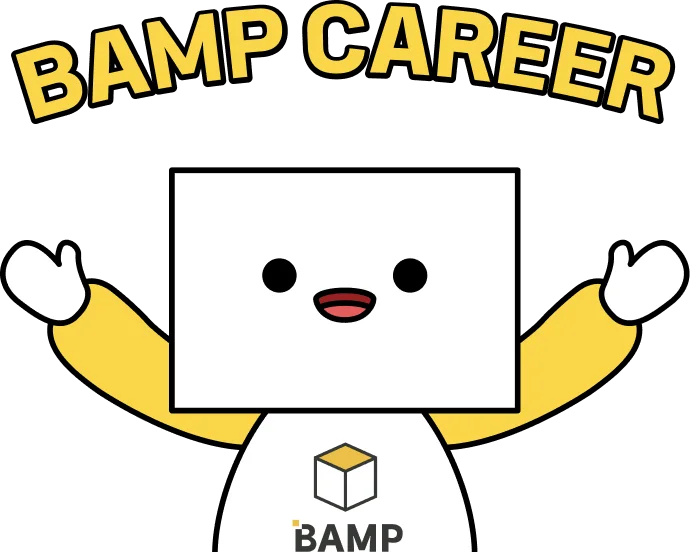
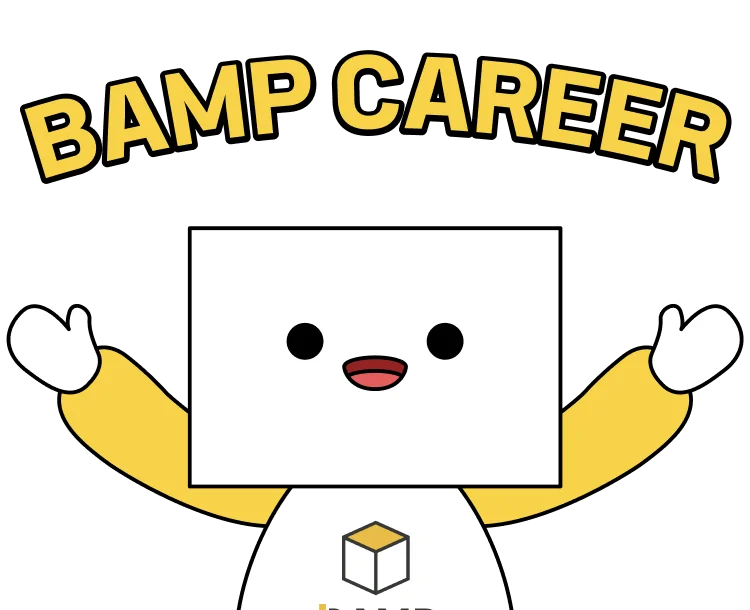
[refactor]: 마지막 최종 디자인 수정

diff --git a/src/pages/home/section/Experiences.tsx b/src/pages/home/section/Experiences.tsx
@@ -1,15 +1,24 @@
 export default function FourthSection() {
   return (
     <section className="h-max py-24 bg-[url('/home/section-bg.webp')] bg-cover max-lg:h-max max-lg:bg-contain max-sm:py-20">
-      <div className="w-screen flex justify-around max-lg:flex-col max-lg:items-center">
-        <div className="w-40">
-          <h2 className="font-extrabold text-3xl max-lg:text-center">
-            BAMP에서 얻을 수 있는 값진 경험들
+      <div className="mx-auto w-[920px] flex justify-between max-lg:flex-col max-lg:items-center max-lg:w-screen">
+        <div>
+          <h2 className="font-extrabold text-3xl max-lg:hidden">
+            BAMP에서
+            <br />
+            얻을 수 있는 값진 경험들
+          </h2>
+          <h2 className="hidden font-extrabold text-3xl max-lg:block max-lg:text-center">
+            BAMP에서
+            <br />
+            얻을 수 있는
+            <br />
+            값진 경험들
           </h2>
         </div>
         <img
           src="/home/bamp-box.gif"
-          className="w-44 max-sm:w-36"
+          className="w-44 max-sm:w-36 "
           alt="박스안에 전구"
         />
       </div>
@@ -19,31 +28,45 @@ export default function FourthSection() {
             src="/home/home-experience.webp"
             alt="다양한 공모전을 하는 밤프인의 모습"
             loading="lazy"
+            width={288}
+            height={337}
           />
-          <h2 className="text-xl font-bold">다양한 공모전 경험</h2>
-          <span className="text-sm text-neutral-500">
-            #공모전 수상 #야 너도 할 수 있어
-          </span>
+          <div className="flex flex-col gap-y-2">
+            <h2 className="text-xl font-bold">다양한 공모전 경험</h2>
+            <span className="text-sm text-neutral-500">
+              #공모전 수상 #야 너도 할 수 있어
+            </span>
+          </div>
         </div>
         <div className="w-72 h-max flex flex-col gap-y-5 max-sm:gap-y-2">
           <img
             src="/home/home-curri.webp"
             alt="다양한 커리큘럼에 참여하는 밤프인의 모습"
             loading="lazy"
+            width={288}
+            height={337}
           />
-          <h2 className="text-xl font-bold">알찬 커리큘럼</h2>
-          <span className="text-sm text-neutral-500">#OB특강 #실력향상ing</span>
+          <div className="flex flex-col gap-y-2">
+            <h2 className="text-xl font-bold">알찬 커리큘럼</h2>
+            <span className="text-sm text-neutral-500">
+              #OB특강 #실력향상ing
+            </span>
+          </div>
         </div>
         <div className="w-72 h-max flex flex-col gap-y-5 max-sm:gap-y-2">
           <img
             src="/home/home-memory.webp"
             alt="다같이 놀고있는 밤프인의 모습"
             loading="lazy"
+            width={288}
+            height={337}
           />
-          <h2 className="text-xl font-bold">즐거운 추억</h2>
-          <span className="text-sm text-neutral-500">
-            #기수별 MT #우리우정뽀에버
-          </span>
+          <div className="flex flex-col gap-y-2">
+            <h2 className="text-xl font-bold">즐거운 추억</h2>
+            <span className="text-sm text-neutral-500">
+              #기수별 MT #우리우정뽀에버
+            </span>
+          </div>
         </div>
       </div>
     </section>

diff --git a/src/pages/creditSponsor/CreditSponsor.tsx b/src/pages/creditSponsor/CreditSponsor.tsx
@@ -58,22 +58,28 @@ export function Component() {
           <div className="flex flex-col justify-center text-center">
             <div className="flex justify-center gap-x-2 max-sm:flex-col">
               <h2 className="font-extrabold text-3xl max-sm:text-2xl">
-                누구나 할 수 있기에,
+                2023.12 기준
               </h2>
               <h2 className="font-extrabold text-3xl max-sm:text-2xl">
-                WHO ￦입니다.
+                OB 후원자님들
               </h2>
             </div>
-            <span className="mt-4 text-sm text-gray-400">
-              2023.12 기준 후원자 분들
-            </span>
           </div>
 
           <div className="flex justify-center gap-x-10 max-sm:flex-col">
             <img
-              className="w-64 self-center max-sm:w-36"
+              className="w-64 self-center max-sm:hidden"
               src="/credit/sponsor/sponser-greet-bamdi.webp"
               alt="인사하는 밤디"
+              width={256}
+              height={346}
+            />
+            <img
+              className="hidden max-sm:block w-[148px] self-center"
+              src="/credit/sponsor/sponser-greet-bamdi-mobile.webp"
+              alt="인사하는 밤디"
+              width={148}
+              height={199}
             />
             <div className="flex gap-x-14 max-sm:text-sm max-sm:gap-x-3 max-sm:mx-auto max-sm:mt-12">
               <div className="font-semibold flex flex-col justify-center gap-y-6 text-lg">
@@ -119,11 +125,15 @@ export function Component() {
               className="hidden max-sm:block"
               src="/credit/sponsor/sponsor-pig-mobile.webp"
               alt="돼지 저금통"
+              width={533}
+              height={408}
             />
             <img
               className="mt-8 w-8/12 max-sm:w-10/12 mx-auto max-sm:hidden"
               src="/credit/sponsor/sponsor-pig.webp"
               alt="돼지 저금통"
+              width={440}
+              height={337}
             />
 
             <button

diff --git a/src/pages/home/section/BampMerit.tsx b/src/pages/home/section/BampMerit.tsx
@@ -10,6 +10,7 @@ export default function BampMerit() {
         className="w-44 absolute top-10 left-10 max-md:left-1 max-lg:hidden"
         src="/home/bamp-box.gif"
         alt="박스안에 전구"
+        loading="lazy"
       />
       <img
         className="w-32 absolute top-[640px] right-10 max-lg:hidden"
@@ -36,6 +37,9 @@ export default function BampMerit() {
               className="w-96 max-sm:w-72 mx-auto"
               src="/home/since2006.gif"
               alt="브이를 흔드는 밤프인"
+              loading="lazy"
+              width={384}
+              height={384}
             />
             <div className="w-96 flex flex-col justify-center items-center gap-y-8 max-md:gap-y-4">
               <img
@@ -67,6 +71,9 @@ export default function BampMerit() {
               className="w-96 max-sm:w-72 mx-auto"
               src="/home/500people.gif"
               alt="웃고 서있는 두 명의 밤프인"
+              loading="lazy"
+              width={384}
+              height={384}
             />
             <div className="w-96 hidden flex-col justify-center items-center max-md:flex max-md:gap-y-4">
               <img
@@ -90,6 +97,8 @@ export default function BampMerit() {
               className="w-96 max-sm:w-72 mx-auto"
               src="/home/award.gif"
               alt="상을 들고 웃고있는 밤프인"
+              width={384}
+              height={384}
             />
             <div className="w-96 flex flex-col justify-center items-center gap-y-8 max-md:gap-y-4">
               <img

diff --git a/src/components/navbarBg/NavbarBg.tsx b/src/components/navbarBg/NavbarBg.tsx
@@ -10,7 +10,7 @@ export default function NavbarBg({ url }: NavbarBackgroundProps) {
           <img
             src="/career/career-bamdi.webp"
             alt="커리어에 팔벌리고 있는 밤디"
-            className="w-80 max-sm:hidden"
+            className="w-96 max-sm:hidden"
           />
           <img
             src="/career/career-bamdi-mobile.webp"
@@ -24,7 +24,7 @@ export default function NavbarBg({ url }: NavbarBackgroundProps) {
           <img
             src="/news/story-bamdi.webp"
             alt="마이크에 말하는 밤디"
-            className="w-80 max-sm:hidden"
+            className="w-96 max-sm:hidden"
           />
           <img
             src="/news/story-bamdi-mobile.webp"
@@ -38,7 +38,7 @@ export default function NavbarBg({ url }: NavbarBackgroundProps) {
           <img
             src="/credit/sponsor/credit-sponsor-bamdi.webp"
             alt="하트를 깨무는 밤디"
-            className="w-80 max-sm:hidden"
+            className="w-96 max-sm:hidden"
           />
           <img
             src="/credit/sponsor/credit-sponsor-bamdi-mobile.webp"
@@ -51,7 +51,7 @@ export default function NavbarBg({ url }: NavbarBackgroundProps) {
         <>
           <img
             src="/credit/bamsaneung/credit-bamsaneung-bamdi.webp"
-            className="w-80 max-sm:hidden"
+            className="w-96 max-sm:hidden"
             alt="하트하는 밤디"
           />
           <img

diff --git a/src/pages/newsStory/section/StoryPassion.tsx b/src/pages/newsStory/section/StoryPassion.tsx
@@ -40,7 +40,12 @@ export default function StoryPassion() {
       </div>
 
       <div>
-        <img src="/news/story/story-passion.webp" alt="카톡내용 이미지" />
+        <img
+          src="/news/story/story-passion.webp"
+          alt="카톡내용 이미지"
+          width={800}
+          height={500}
+        />
         <span className="font-normal text-sm text-center block mt-3 text-[#999999]">
           맑.눈.광은 지락실에만 있는 게 아니랍니다. 윤진님의 카톡중
         </span>

diff --git a/src/pages/careerHistory/section/HistoryBamdi.tsx b/src/pages/careerHistory/section/HistoryBamdi.tsx
@@ -17,7 +17,7 @@ export default function HistoryBamdi() {
         </div>
       </div>
 
-      <div className="mt-3 w-full bg-[#EFEFEF] rounded-[5px] py-3 px-5">
+      <div className="mt-3 w-full bg-[#FFF2AE] rounded-[5px] py-3 px-5">
         <div className="flex flex-col font-normal gap-y-1">
           <span className="font-medium inline-block">
             Q. 밤디의 머리 위가 노란색인 이유는?

diff --git a/src/pages/newsStory/section/StoryTeamplay.tsx b/src/pages/newsStory/section/StoryTeamplay.tsx
@@ -44,6 +44,8 @@ export default function StoryTeamplay() {
           className="rounded-lg"
           src="/news/story/story-teamplay.webp"
           alt="수상을 한 팀사진"
+          width={800}
+          height={600}
         />
         <span className="text-sm font-normal text-center block mt-3 text-[#999999]">
           소설 같은 케미, 최고의 시너지. 밤프에선 현실이 됩니다!

diff --git a/src/pages/newsStory/section/StoryNewbieToOB.tsx b/src/pages/newsStory/section/StoryNewbieToOB.tsx
@@ -47,6 +47,8 @@ export default function StoryNewbieToOB() {
           className="rounded-lg"
           src="/news/story/story-newbie.webp"
           alt="광고인이 된 수료자"
+          width={800}
+          height={600}
         />
         <span className="font-normal text-sm text-center block mt-3 text-[#999999]">
           뉴비에서 광고인물까지, 모든 순간 밤프와 함께했다

diff --git a/src/pages/creditBamsaneung/CreditBamsaneung.tsx b/src/pages/creditBamsaneung/CreditBamsaneung.tsx
@@ -41,6 +41,8 @@ export function Component() {
               src="/credit/bamsaneung/bamsaneung-heart.webp"
               className="w-96 max-sm:w-full"
               alt="하트를 그리는 밤사능 멤버"
+              width={384}
+              height={384}
             />
             <div className="flex flex-col justify-center gap-y-5 max-sm:w-full max-sm:mt-8">
               <div>

diff --git a/src/pages/newsStory/section/StoryGrownUp.tsx b/src/pages/newsStory/section/StoryGrownUp.tsx
@@ -45,6 +45,8 @@ export default function StoryGrownUp() {
           className="rounded-lg"
           src="/news/story/story-grownup.webp"
           alt="성장하는 성채의 기획서"
+          width={800}
+          height={477}
         />
         <span className="text-sm font-normal text-center block mt-3 text-[#999999]">
           몰라보게 달라진 성채님의 기획서

diff --git a/src/components/profileImg/ProfileImg.tsx b/src/components/profileImg/ProfileImg.tsx
@@ -10,6 +10,8 @@ export default function ProfileImg({ enName, koName }: ProfileImgProps) {
         src={`/credit/bamsaneung/people/${enName}.webp`}
         className="w-32 max-md:mx-auto max-md:w-48"
         alt="밤사능멤버 프로필"
+        width={128}
+        height={128}
       />
       <span className="font-semibold">{koName}</span>
     </div>

diff --git a/src/pages/home/section/LinkToBamsaneung.tsx b/src/pages/home/section/LinkToBamsaneung.tsx
@@ -17,6 +17,8 @@ export default function LinkToBamsaneung() {
           src="/home/home-main-bamdi.webp"
           className="w-96 max-sm:w-80 max-sm:mt-10"
           alt="하트 날리는 밤디"
+          width={384}
+          height={311}
         />
       </div>
       <div className="flex flex-col gap-y-1 max-md:hidden">
